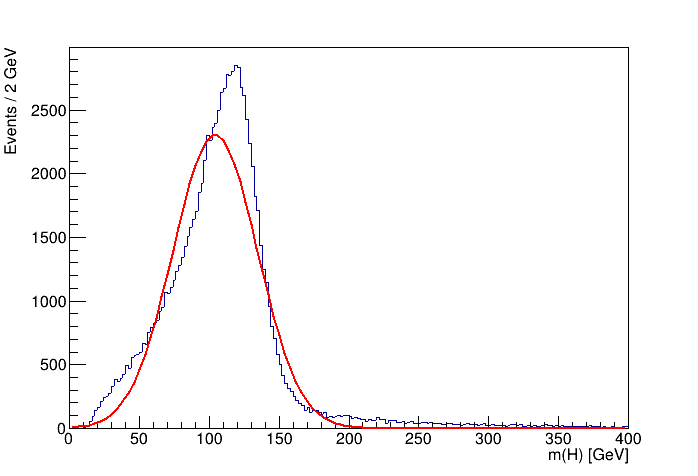
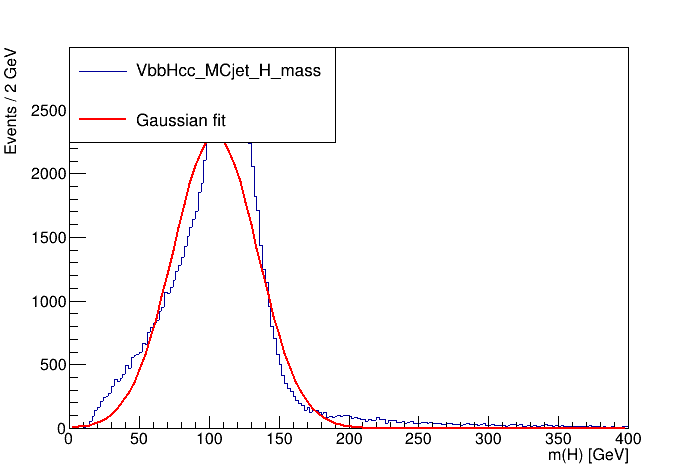
Fit plots

Changed region(s): [[0.1805, 0.1176, 0.4814, 0.1765], [0.1203, 0.2353, 0.3309, 0.2941]]

diff --git a/UtilScripts/fit_gaus.py b/UtilScripts/fit_gaus.py
@@ -12,7 +12,7 @@ import os,sys
 ROOT.gStyle.SetOptStat(0)
 
 filepath = "../new_condor_results/NONE/ZH_HToCC_ZToQQ_MC_2018.root"
-outputdir = "../produced_plots/mediumWP/COMBINED/2018/"
+outputdir = "../produced_plots/mediumWP/fits/"
 plot = "VbbHcc_MCjet_H_mass"
 
 # Pull the histogram from the file
@@ -30,8 +30,22 @@ fit1 = ROOT.TF1("f1", "gaus", 0, 400)
 hist.Fit("f1", "R")
 fit1.Draw("same")
 
+# pull the statistics
+ndf = fit1.GetNDF()
+chi2 = fit1.GetChisquare() / ndf
+p0 = fit1.GetParameter(0)
+p1 = fit1.GetParameter(1)
+p2 = fit1.GetParameter(2)
+
+legend = ROOT.TLegend(0.6,0.7,0.9,0.9)
+legend.AddEntry(hist, "MC jets", "l")
+legend.AddEntry(fit1, "Gaussian fit", "l")
+legend.AddEntry(0, "#chi^{2}/ndf = " + str(chi2), "")
+legend.AddEntry(0, "constant = " + str(p0), "")
+legend.AddEntry(0, "mean = " + str(p1), "")
+legend.AddEntry(0, "sigam = " + str(p2), "")
+legend.Draw()
+
 # Update & output everything
 c.Update()
-ROOT.gBenchmark.Show("gaus")
-
 c.Print(outputdir + "FIT_" + plot + ".png")
